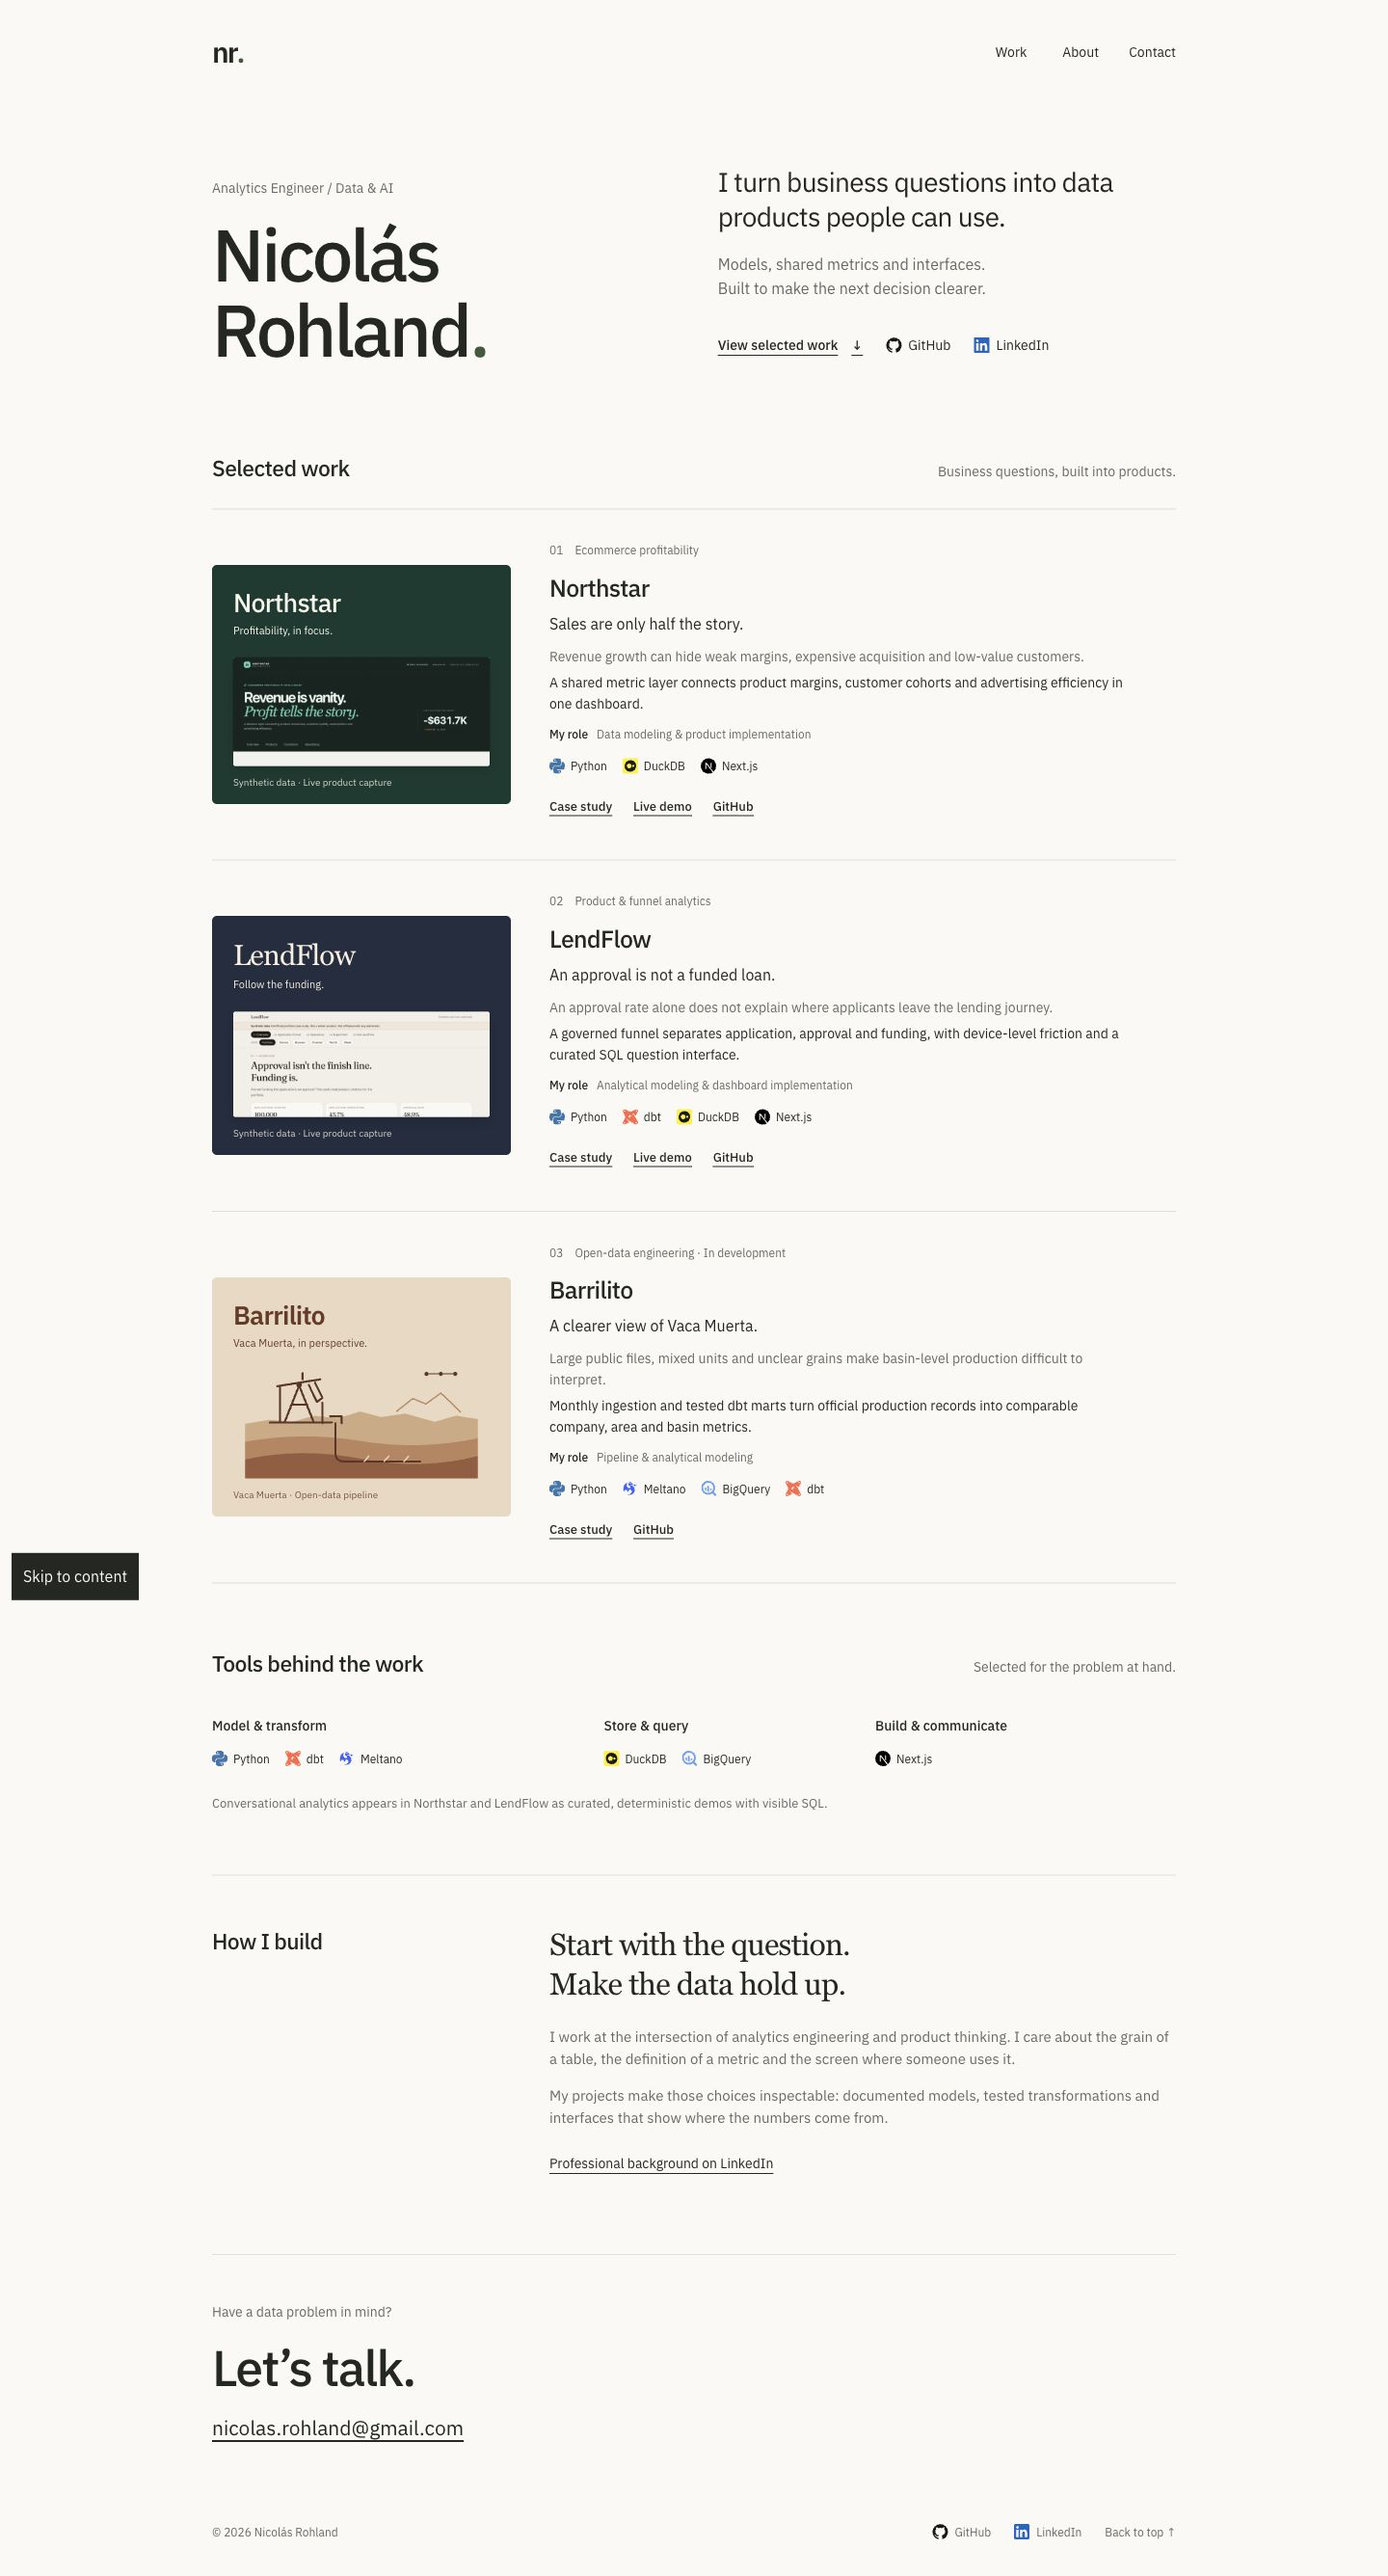
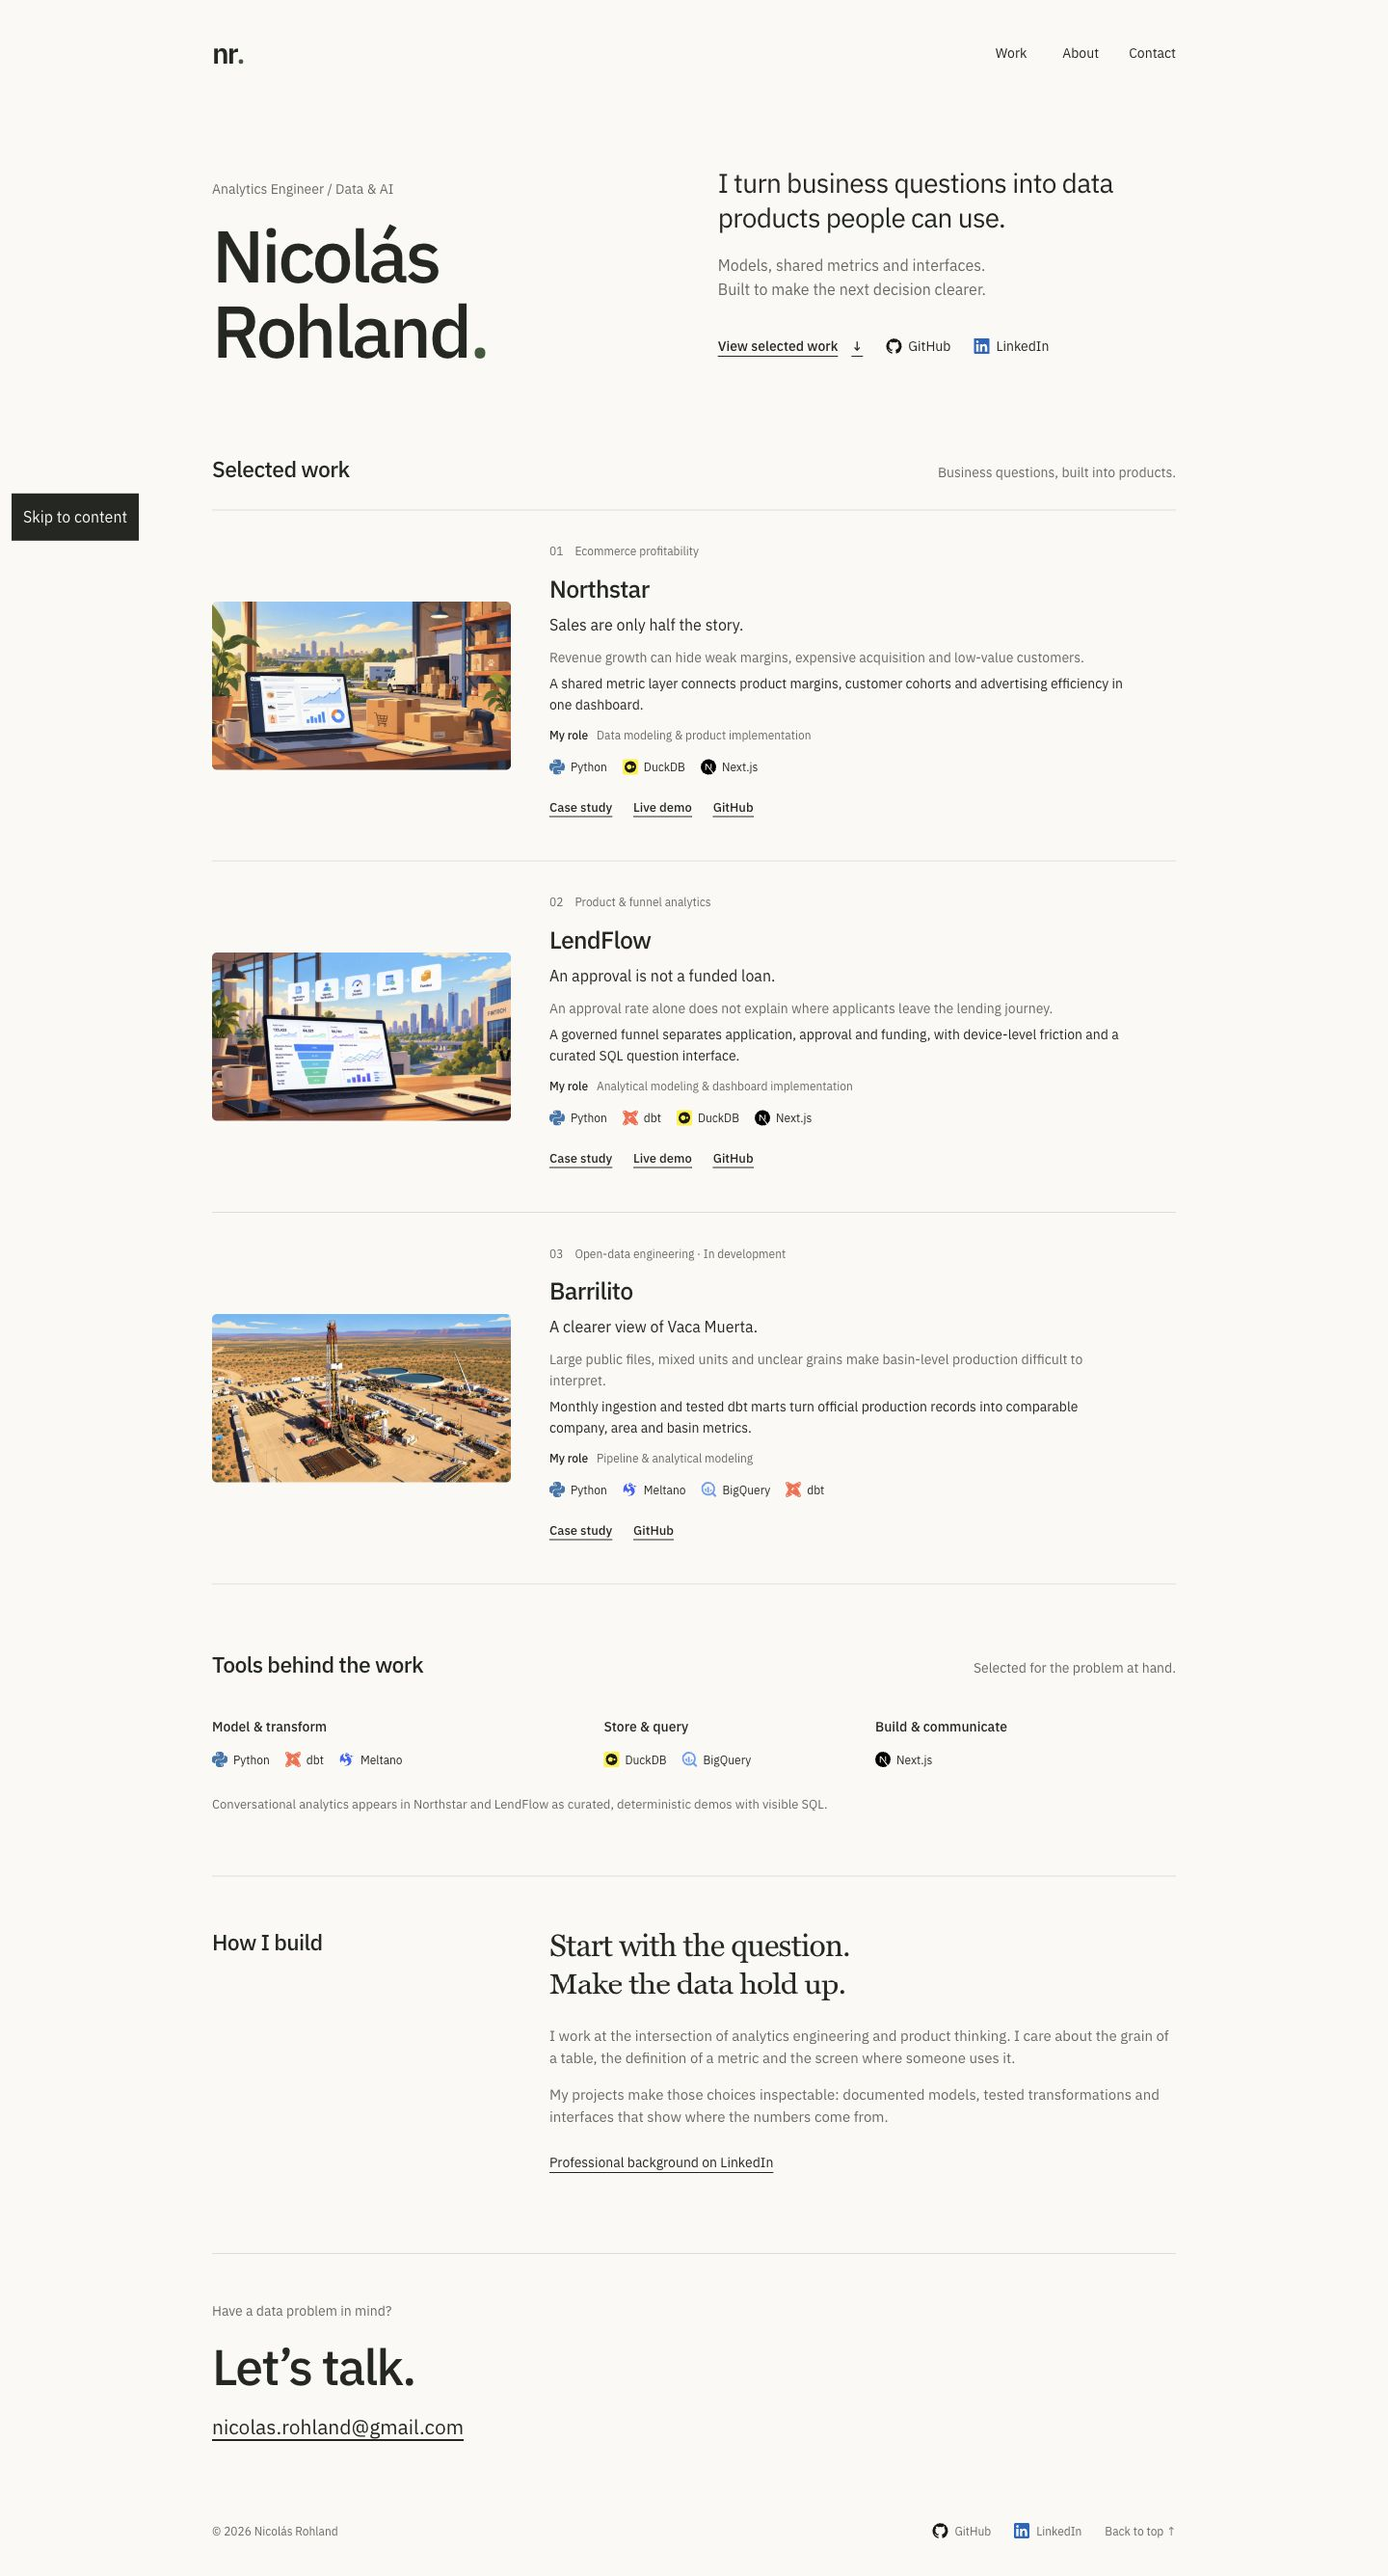
Use owner-supplied illustrations as project covers

diff --git a/src/app/globals.css b/src/app/globals.css
@@ -29,21 +29,10 @@ h2 { font-size:23px; font-weight:500; letter-spacing:-.6px; }
 .section-heading p { font-size:14px; color:var(--muted); }
 .project-list { border-top:1px solid var(--line); }
 .project-row { display:grid; grid-template-columns:310px 1fr; gap:40px; padding-block:34px; border-bottom:1px solid var(--line); align-items:center; }
-.cover-link { display:block; border-radius:5px; }
+.cover-link { display:block; min-width:0; border-radius:5px; }
 .cover-link:hover { text-decoration:none; }
-.project-cover { height:248px; padding:24px 22px 15px; border-radius:5px; overflow:hidden; position:relative; display:flex; flex-direction:column; }
-.cover-heading { display:flex; flex-direction:column; position:relative; z-index:1; }
-.cover-name { font-size:27px; font-weight:500; letter-spacing:-.8px; line-height:1.1; }
-.cover-subtitle { font-size:11px; margin-top:5px; }
-.cover-northstar { background:#183b30; color:#f5f8ed; }
-.cover-lendflow { background:#242d3f; color:#f9efe0; }
-.cover-lendflow .cover-name { font-family:Georgia,serif; font-size:30px; }
-.cover-barrilito { background:#ebd8c3; color:#693a25; }
-.cover-barrilito .cover-name { font-weight:600; }
-.cover-ad-analytics { background:#e5e8dd; color:#303d36; }
-.cover-screen { margin-top:20px; width:100%; height:122px; border-radius:2px; overflow:hidden; background:#f5f4f0; outline:1px solid rgb(0 0 0 / .1); box-shadow:0 6px 14px rgb(0 0 0 / .13); }
-.cover-screen img { width:100%; height:auto; display:block; }
-.cover-caption { margin-top:auto; padding-top:9px; font-size:10px; opacity:.85; }
+.project-cover { width:100%; aspect-ratio:1000 / 563; border-radius:5px; overflow:hidden; }
+.project-cover img { display:block; width:100%; height:auto; }
 .basin-chart { display:block; width:100%; height:auto; margin-top:13px; overflow:visible; }
 .basin-chart text { font-family:"IBM Plex Sans",sans-serif; font-size:11px; fill:currentColor; }
 .basin-chart line { stroke:currentColor; opacity:.3; }
@@ -103,7 +92,7 @@ h2 { font-size:23px; font-weight:500; letter-spacing:-.6px; }
   .hero { grid-template-columns:1fr; gap:28px; padding-block:40px 50px; } h1 { font-size:60px; letter-spacing:-2.5px; } .role { margin-bottom:14px; }
   .hero-note > p:first-child { font-size:25px; } .hero-detail { font-size:15px; margin-top:14px; } .hero-links { gap:20px; margin-top:16px; }
   .section-heading { display:block; padding-bottom:22px; } .section-heading p { margin-top:6px; }
-  .project-row { grid-template-columns:1fr; gap:23px; padding-block:28px 24px; } .project-cover { height:246px; } .cover-screen { width:100%; height:124px; }
+  .project-row { grid-template-columns:1fr; gap:23px; padding-block:28px 24px; }
   .project-info h3 { font-size:26px; } .project-category { font-size:12px; } .project-problem,.project-outcome { font-size:15px; }
   .project-role { line-height:1.6; } .tech-stack { gap:12px 18px; } .project-links { gap:22px; }
   .technology-groups { grid-template-columns:1fr; gap:28px; } .stack-section { padding-block:42px; } .stack-note { font-size:14px; }
@@ -116,7 +105,6 @@ h2 { font-size:23px; font-weight:500; letter-spacing:-.6px; }
 @media(prefers-reduced-motion:reduce) { html { scroll-behavior:auto; } }
 .brand-logo { width:16px; height:16px; }
 .tech-stack .duckdb-logo { background:#fff000; padding:2px; border-radius:2px; }
-.energy-illustration { width:100%; height:133px; margin-top:12px; }
 .social-link { display:inline-flex; gap:7px; align-items:center; }
 .social-link svg { width:16px; height:16px; flex-shrink:0; }
 .wordmark, .hero-links a, .project-links a, .footer-bottom a { min-width:44px; }

diff --git a/src/components/project-cover.tsx b/src/components/project-cover.tsx
@@ -12,26 +12,12 @@ export function BasinChart() {
   </svg>;
 }
 export function ProjectCover({ project }: { project: Project }) {
-  return <div className={`project-cover cover-${project.slug}`}>
-    <div className="cover-heading"><span className="cover-name">{project.title}</span><span className="cover-subtitle">{project.slug === "northstar" ? "Profitability, in focus." : project.slug === "lendflow" ? "Follow the funding." : project.slug === "barrilito" ? "Vaca Muerta, in perspective." : "From events to insight."}</span></div>
-    {project.image ? <div className="cover-screen"><Image src={project.image} alt={project.imageAlt || project.title} width={1440} height={1000} sizes="(max-width: 700px) 90vw, 320px" /></div> : <EnergyIllustration />}
-    <span className="cover-caption">{project.slug === "barrilito" ? "Vaca Muerta · Open-data pipeline" : "Synthetic data · Live product capture"}</span>
+  const descriptions: Record<string, string> = {
+    northstar: "Editorial illustration of ecommerce analytics on a laptop in a warehouse, with packages and a delivery truck.",
+    lendflow: "Editorial illustration of a lending funnel dashboard and loan application stages in a fintech office.",
+    barrilito: "Editorial illustration of a drilling site in a desert landscape, representing Vaca Muerta.",
+  };
+  return <div className="project-cover">
+    <Image src={`/case-studies/${project.slug}-cover.webp`} alt={descriptions[project.slug]} width={1000} height={563} sizes="(max-width: 700px) 90vw, 310px" />
   </div>;
-}
-
-function EnergyIllustration() {
-  return <svg className="energy-illustration" viewBox="0 0 340 170" role="img" aria-label="Illustration of oil extraction above layered underground rock, representing Vaca Muerta.">
-    <path d="M0 90 35 84 70 87 101 78 135 82 168 72 199 80 234 75 277 87 308 78 340 83V170H0Z" fill="#d0aa83" />
-    <path d="M0 116Q85 101 169 115T340 111V170H0Z" fill="#bb855e" />
-    <path d="M0 142Q82 124 170 141T340 137V170H0Z" fill="#995b3e" />
-    <g fill="none" stroke="#5e3525" strokeWidth="3" strokeLinecap="round" strokeLinejoin="round">
-      <path d="M36 88h91M58 87l21-53 21 53M68 62h23M47 35l63-10M84 25v-9M102 30l11 22-8 6-12-25" />
-      <path d="M51 34v54M113 59v30M124 79h17v10M132 89v44q0 12 13 12h111" />
-      <path d="m174 145 7-8m22 8 7-8m22 8 7-8" stroke="#f2d7b8" strokeWidth="2" />
-    </g>
-    <circle cx="79" cy="33" r="4" fill="#5e3525" />
-    <path d="m221 72 24-19 19 8 22-16 29 28" fill="none" stroke="#b78863" strokeWidth="2" />
-    <g fill="#5e3525"><circle cx="265" cy="17" r="3" /><circle cx="286" cy="17" r="3" /><circle cx="307" cy="17" r="3" /></g>
-    <path d="M268 17h15m6 0h15" stroke="#5e3525" strokeWidth="1.5" />
-  </svg>;
 }

diff --git a/docs/assets.md b/docs/assets.md
@@ -1,7 +1,7 @@
 # Asset sources
 
-- Northstar and LendFlow: captures of their public live demos, 2026-10-01, converted to WebP for transfer size. The covers are editorial compositions using these real captures.
-- Barrilito cover: original SVG editorial illustration of oil extraction and underground rock layers. It represents the subject, not a product screenshot, measured geography or a technical well diagram.
+- Project covers: three editorial illustrations supplied by the portfolio owner on 2026-10-01. First image: Barrilito drilling site; second: Northstar ecommerce warehouse; third: LendFlow lending funnel. Encoded as WebP at 1000px wide. These are illustrative covers, not product screenshots or evidence of project metrics.
+- Northstar and LendFlow case pages: real public live-demo captures from 2026-10-01, retained separately from the new covers.
 - Barrilito case page: inline SVG chart from `apps/spike/data/monthly_pulse.csv`, pinned Vaca Muerta repository commit `1c1c30eb9e29901048cbd812eb14f46c109e4439`. Absolute oil production in cubic metres; no live feed or extrapolation.
 - Python, dbt, DuckDB, BigQuery, Next.js, GitHub and LinkedIn: Simple Icons 13.21.0, CC0. Logos retain their brand colors with adjacent labels. DuckDB uses a dark mark on its official yellow for contrast. Logos remain the trademarks of their owners. https://simpleicons.org/
 - Meltano: official blue icon from https://github.com/meltano/meltano/blob/main/docs/docs/reference/images/icon.svg, downloaded 2026-10-01. Repo MIT license. Displayed with adjacent label.

diff --git a/docs/verification.md b/docs/verification.md
@@ -63,3 +63,7 @@ Remaining release work: choose/confirm the public canonical domain through `NEXT
 The final selection now has three projects. Ad Analytics is absent from the homepage, static routes and sitemap. SQL and React are absent from all technology lists; the frontend group contains only Next.js. Existing technical SQL explanations remain. Brand colors and footer GitHub/LinkedIn icons were checked in the rendered DOM. Barrilito's new cover is an explicitly illustrative extraction/strata SVG; its real chart remains on the case page.
 
 Fresh checks: lint, typecheck and static build pass. This local build used `npm run build -- --webpack` because Turbopack was denied a localhost IPC port by the execution sandbox. The existing CI continues to exercise the normal build. Updated desktop/mobile screenshots were captured. Homepage at 1440px and 390px has no overflow or unloaded content images, and no browser console errors were observed. The link/metadata parser now checks four content pages.
+
+## Owner-supplied cover images
+
+Replaced all three homepage covers with the illustrations supplied by the owner, preserving the full 16:9 composition and existing real screenshots on case-study pages. WebP files total approximately 329 KiB. Lint, typecheck and production Webpack build passed. Desktop 1440px and mobile 390px reviewed; mobile image intrinsic-width overflow corrected and document width verified at 390px. Local route/image validation passed.
